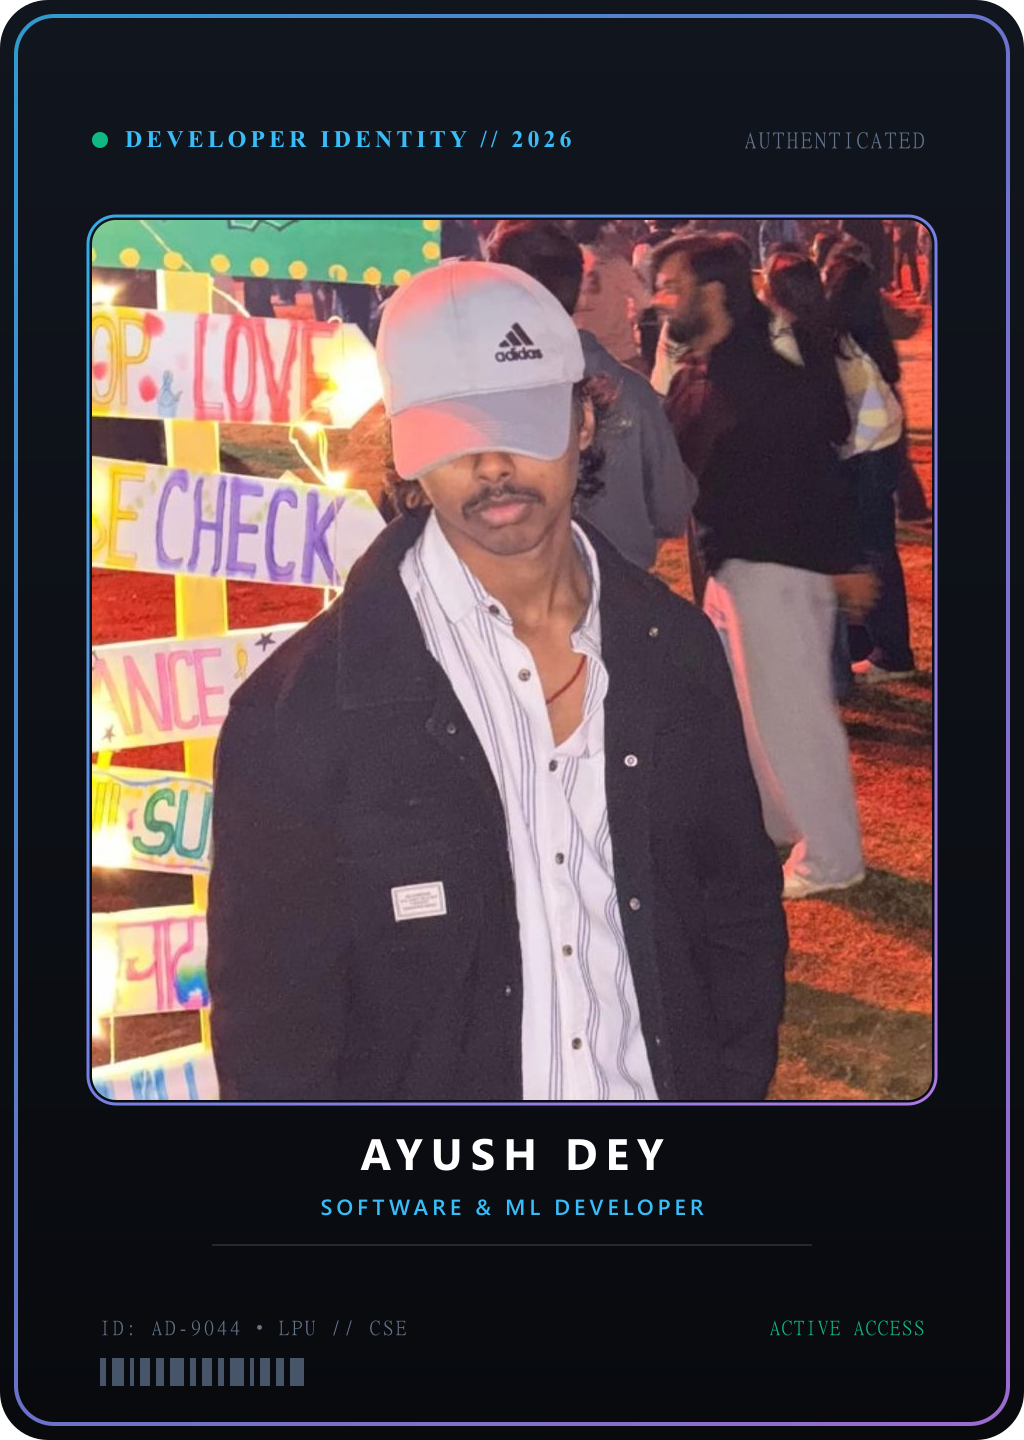
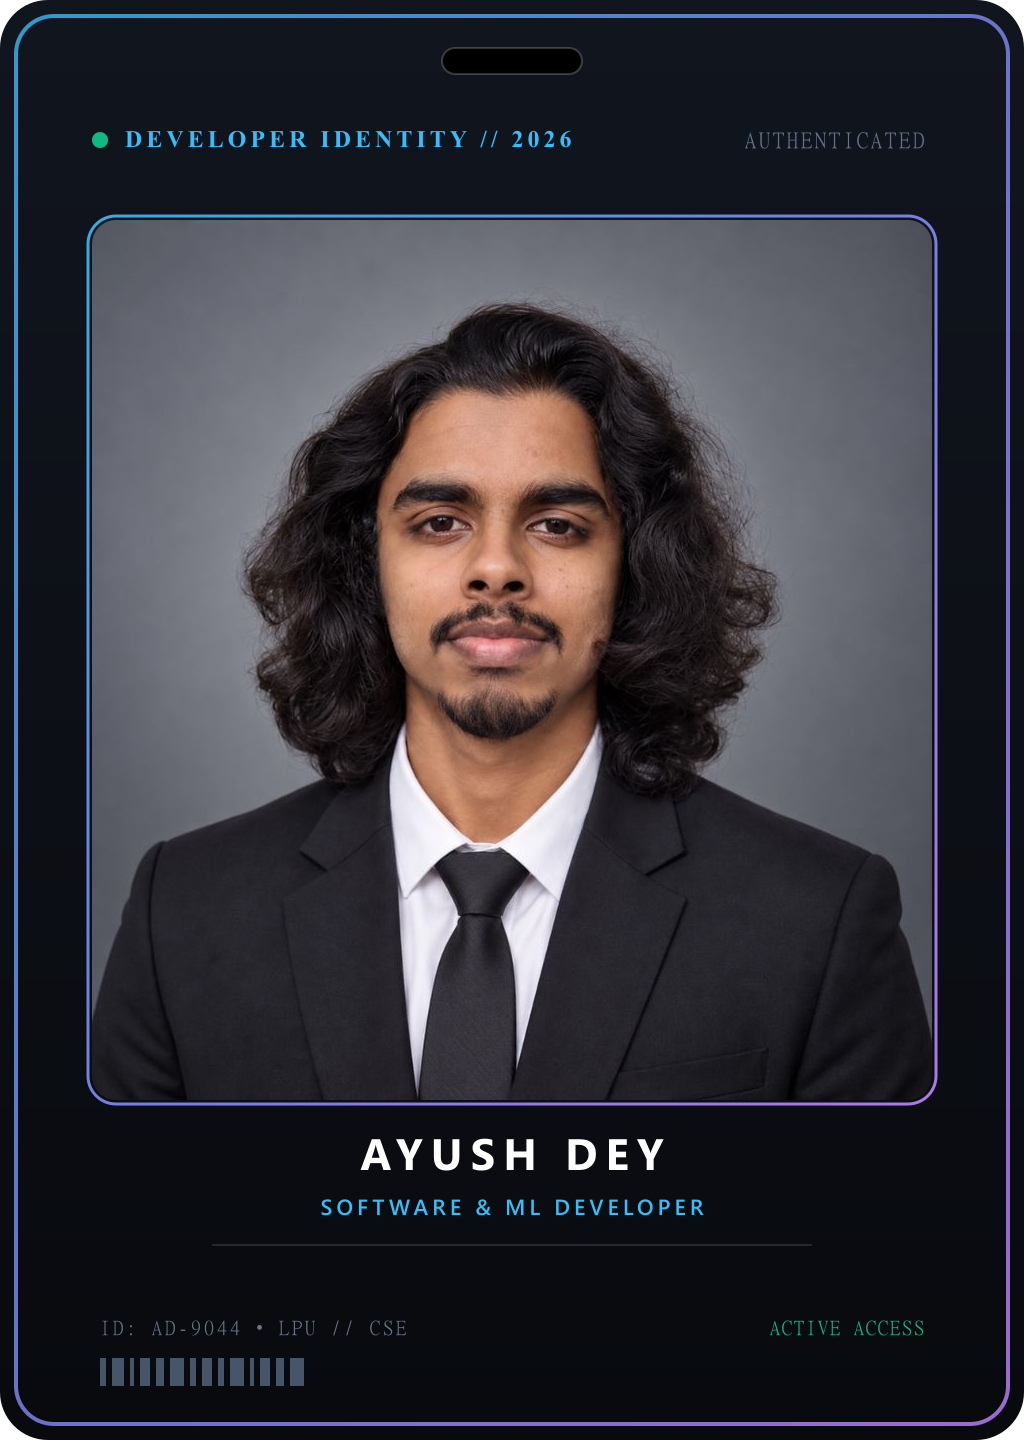
feat(card): update hero profile card image to professional suit portrait

diff --git a/build_profile_card.js b/build_profile_card.js
@@ -2,7 +2,7 @@ const fs = require('fs');
 const path = require('path');
 const sharp = require('sharp');
 
-const userPhotoPath = 'C:\\Users\\Ayush\\.gemini\\antigravity-ide\\brain\\5b54c791-96f5-4f3b-96f3-6d40541a21ec\\.user_uploaded\\media_1788454825521.jpg';
+const userPhotoPath = path.join(__dirname, 'public', 'assets', 'lanyard', 'user-photo.jpg');
 const outputDir = path.join(__dirname, 'public', 'assets', 'lanyard');
 
 async function createProfileCard() {
